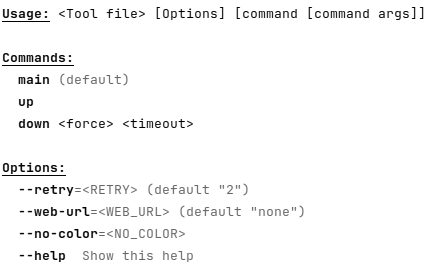
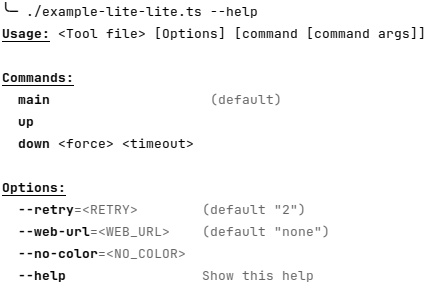
doc: update

diff --git a/clite_parser.test.ts b/clite_parser.test.ts
@@ -31,6 +31,7 @@ class Tool {
   _hidden = 5;
   _opt3_desc = "option 3 desc";
   _clean_desc = "clean all data";
+  _optCamelCase_desc = "optCamelCase desc";
 
   up() {
     console.log("up command", this);
@@ -82,6 +83,7 @@ Deno.test("getFieldNames", () => {
     "_hidden",
     "_opt3_desc",
     "_clean_desc",
+    "_optCamelCase_desc",
   ]);
 });
 
@@ -119,7 +121,7 @@ Options:
   --opt2=<OPT2>                      (default "true")
   --opt3=<OPT3>                      option 3 desc (default "azer")
   --opt-snake-case=<OPT_SNAKE_CASE>
-  --opt-camel-case=<OPT_CAMEL_CASE>
+  --opt-camel-case=<OPT_CAMEL_CASE>  optCamelCase desc
   --help                             Show this help`;
   assertEquals(stripAnsiCode(genHelp(tool)), expected);
 });

diff --git a/examples/dcpps.ts b/examples/dcpps.ts
@@ -1,7 +1,7 @@
 #!/usr/bin/env -S deno run -A
 // Colorize the "docker compose ps" command and watch changes
 
-import { cliteRun } from "https://deno.land/x/clite_parser@0.1.8/clite_parser.ts";
+import { cliteRun } from "https://deno.land/x/clite_parser@0.1.9/clite_parser.ts";
 import $ from "https://deno.land/x/dax@0.36.0/mod.ts";
 import { assert } from "https://deno.land/std@0.213.0/assert/assert.ts";
 import {

diff --git a/clite_parser.ts b/clite_parser.ts
@@ -95,7 +95,7 @@ export function genOptionsHelp(obj: Obj, helpLines: string[]) {
     let col2 = "";
     const desc = obj[`_${field}_desc`] ?? "";
     if (desc) {
-      col2 += gray(`${desc} `);
+      col2 += gray(desc) + " ";
     }
     const defaultValue = obj[field];
     if (defaultValue != undefined) {

diff --git a/examples/example.ts b/examples/example.ts
@@ -12,6 +12,7 @@ class Tool {
   _main_desc = "do up/down/clean";
   _up_desc = "create and start the services";
   _down_desc = "stop and delete the services";
+  _priv_field = 123;
 
   main() {
     console.log("main command", this);

diff --git a/README.md b/README.md
@@ -5,7 +5,7 @@ each field generate an "option" :
 
 ```typescript
 #!/usr/bin/env -S deno run -A
-import { cliteRun } from "https://deno.land/x/clite_parser@0.1.8/clite_parser.ts";
+import { cliteRun } from "https://deno.land/x/clite_parser@0.1.9/clite_parser.ts";
 
 class Tool {
   retry = 2;
@@ -35,24 +35,26 @@ cliteRun(new Tool());
 Plain text (without color and styles in markdown):
 
 ```
+$ ./example-lite-lite.ts --help
 Usage: <Tool file> [Options] [command [command args]]
 
 Commands:
-  main (default)
+  main                    (default)
   up
   down <force> <timeout>
 
 Options:
-  --retry=<RETRY> (default "2")
-  --web-url=<WEB_URL> (default "none")
+  --retry=<RETRY>        (default "2")
+  --web-url=<WEB_URL>    (default "none")
   --no-color=<NO_COLOR>
-  --help  Show this help
+  --help                 Show this help
 ```
 
-## Run example with options and command arguments
+## Run the commands with options and arguments
 
 ```shell
-$ ./example-lite.ts --retry=4 --web-url=tttt --no-color down true 14
+#                   ↓↓↓↓↓↓↓↓↓↓↓↓↓↓↓ options ↓↓↓↓↓↓↓↓↓↓↓ ↓command↓ ↓cmd args↓
+$ ./example-lite.ts --retry=4 --web-url=tttt --no-color   down     true  14
 down command { force: "true", timeout: "14" } Tool { retry: "4", webUrl: "tttt", no_color: true }
 
 $ ./example-lite.ts down true 14
@@ -69,7 +71,7 @@ the help :
 
 ```typescript
 #!/usr/bin/env -S deno run -A
-import { cliteRun } from "https://deno.land/x/clite_parser@0.1.8/clite_parser.ts";
+import { cliteRun } from "https://deno.land/x/clite_parser@0.1.9/clite_parser.ts";
 
 class Tool {
   _desc = "This tool is a little example of CliteParser"; // optional description
@@ -107,15 +109,15 @@ This tool is a little example of CliteParser
 Usage: <Tool file> [Options] [command [command args]]
 
 Commands:
-  main (default)
-  up  create and start
+  main                    (default)
+  up                      create and start
   down <force> <timeout>
 
 Options:
-  --retry=<RETRY> (default "2")
-  --web-url=<WEB_URL> (default "none")
+  --retry=<RETRY>        (default "2")
+  --web-url=<WEB_URL>    (default "none")
   --no-color=<NO_COLOR>  skip colorize
-  --help  Show this help
+  --help                 Show this help
 ```
 
 ## Default command
